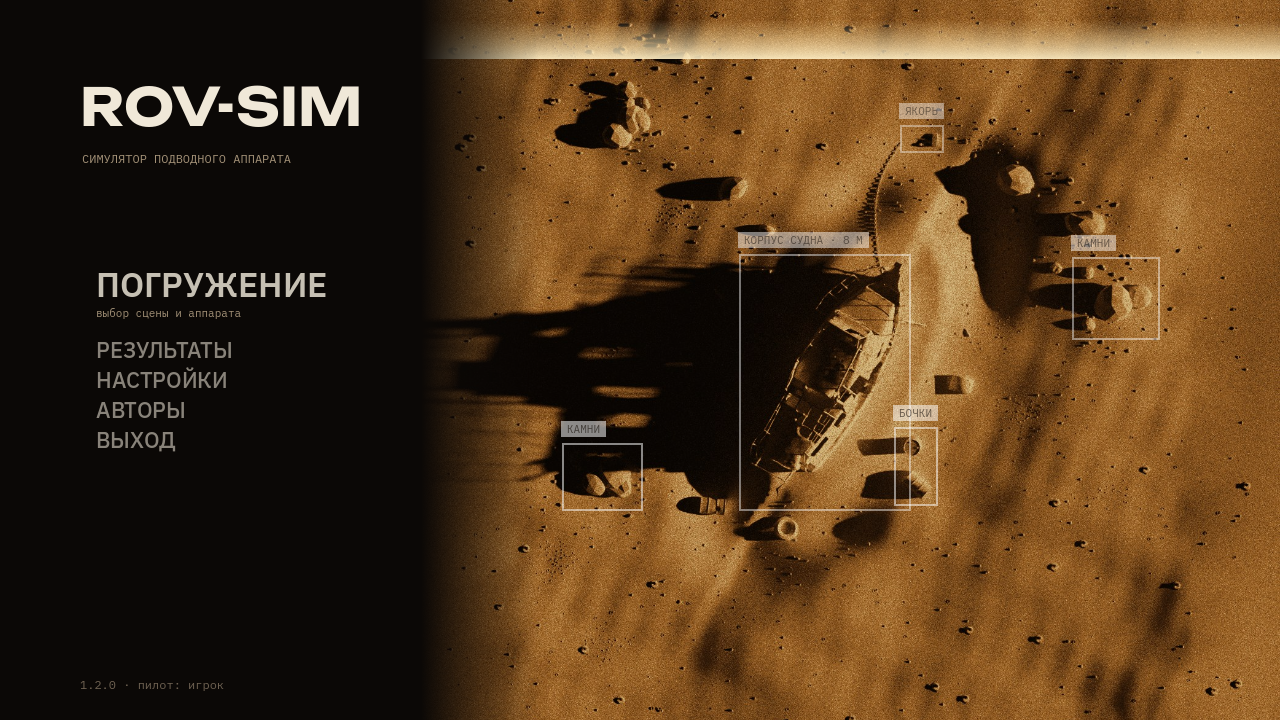
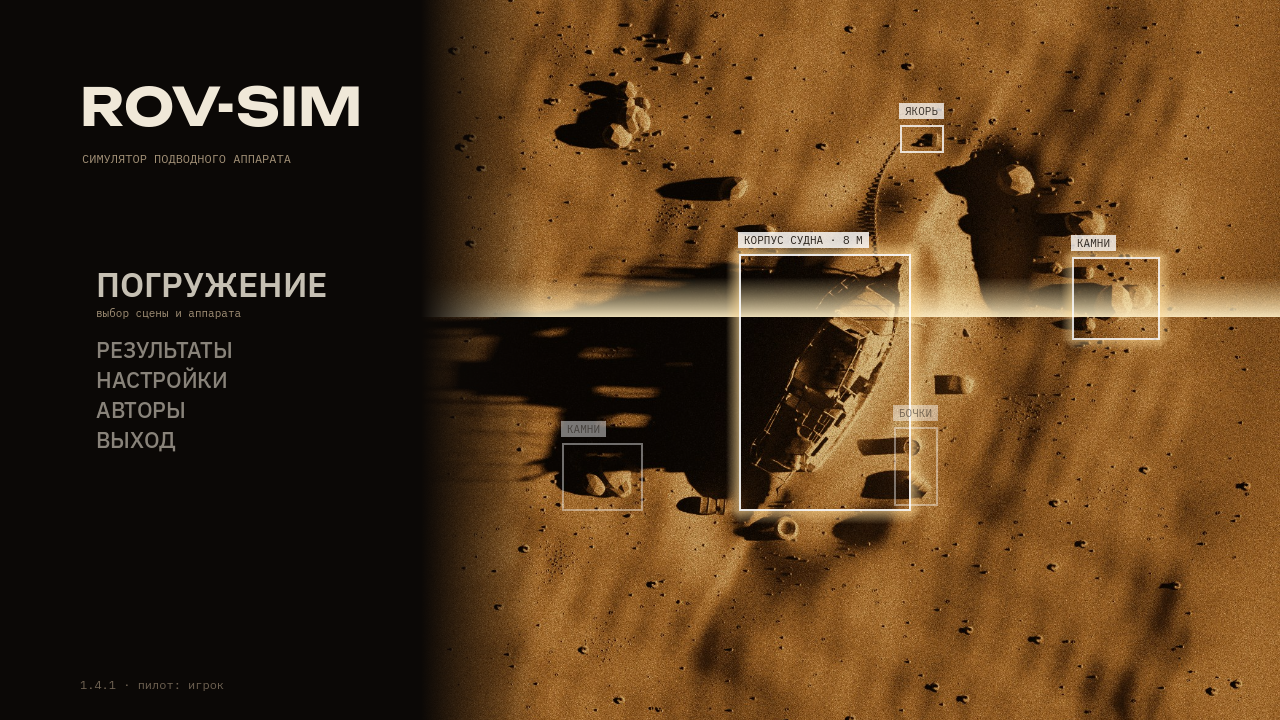
README короче, новые снимки из 1.4.1

diff --git a/README.md b/README.md
@@ -1,132 +1,103 @@
 # ROV-Sim
 
-Версия 1.4.1 · [что нового](CHANGELOG.md)
+Симулятор небольшого телеуправляемого подводного аппарата (ТНПА) «Петрович» — макета кафедры морских информационных систем и технологий СПбГМТУ. Версия 1.4.1, [изменения](CHANGELOG.md).
 
-**Симулятор настоящего подводного аппарата, где у каждого числа есть источник и проверка.**
+![Бассейн с кольцами: камера аппарата, окошко «со стороны» с силами](docs/screenshots/01_pool_rings.png)
 
-Аппарат — телеуправляемый подводный робот (ТНПА) **«Петрович»**: макет для отработки инженерных решений, который собрал и разработал коллектив кафедры морских информационных систем и технологий (МИСиТ, 2350) СПбГМТУ в рамках трёх магистерских работ. Труба Ø140 × 650 мм, два маршевых движителя, две поршневые цистерны по 70 мл для глубины и дифферента. В игре он управляется теми же командами, что с настоящего пульта (работа Павлова), движется по модели и откалиброван по опытам в бассейне кафедры (работа Дунаева), а свет в воде считается по физике и сверен с кадрами мишени (работа Холопова).
+**Скачать:** [Releases](https://github.com/kholye/ROV-Sim/releases) → `ROV-Sim-1.4.1-windows-x64.zip` (≈126 МБ). Распаковать и запустить `ROV-Sim.exe`, установка не нужна; всё, что игра сохраняет, лежит в папке `userdata` рядом с ней. Достаточно встроенной видеокарты (60 кадров/с при 1280 × 720 на Ryzen 5 5500U). Интерфейс на русском.
 
-![Бассейн с кольцами: камера аппарата, окошко со стороны с силами](docs/screenshots/01_pool_style.png)
+## Что это
 
-**Скачать для Windows:** [Releases](https://github.com/kholye/ROV-Sim/releases) → `ROV-Sim-1.4.1-windows-x64.zip` (≈126 МБ), распаковать, запустить `ROV-Sim.exe`. Установка не нужна, игра портативная: всё, что она сохраняет, лежит в папке `userdata` рядом с ней. Хватает встроенной видеокарты (60 кадров/с при 1280 × 720 на Ryzen 5 5500U).
+У аппарата труба Ø140 × 650 мм, два маршевых движителя и две поршневые цистерны по 70 мл. Вертикальных движителей нет: глубину меняют цистерны, медленно, поэтому погружаться приходится заранее. Крен и боковой ход не управляются. Управление — как с настоящего пульта: два движителя от одного стика, цистерны по отдельности, удержание глубины по ПИД.
 
-**Новое в 1.4.1:** у затонувшего судна на ленте курса — метка ближайшей точки осмотра: ▲ выше аппарата, ▼ ниже, ◆ на той же глубине.
+Движение считается по уравнениям Fossen (6 степеней свободы). Масса, центры и сопротивление взяты из 3D-модели аппарата, часть чисел подогнана по опытам в бассейне кафедры. Свет в воде считается по каналам R, G, B: поглощение, рассеяние, пелена от лампы. Стандартное освещение движка не используется. У каждого числа в `godot/physics/rov_params.json` указаны источник и статус: *проверено*, *подогнано* или *оценка*.
 
-**Новое в 1.4:** аппарат ложится на дно и не проходит сквозь стены (касание — силами в уравнениях движения); наклон камеры вниз 0-30° (I / K); камера по руководству DiCam 300 — 140° по диагонали, автоэкспозиция; лабораторный бассейн по фото — гладкий бетон, иллюминатор, крышка из 6 секций (открыта одна), кабель; пауза останавливает всё; выбор сцены и «Начать», экран загрузки; настройки короче; стильный вид и гул у судна убраны. Подробно — [CHANGELOG](CHANGELOG.md).
+## Сцены
 
-**В 1.3:** главное меню в виде гидролокатора бокового обзора над местом крушения и экран погружения с выбором аппарата и сцены; авторы аппарата «Петрович» и симулятора — на заставке, в «Авторах», в свойствах .exe и моделях; звук (интерфейс, музыка меню, гул насосов и судна обеспечения, шорох кабеля, запись гидрофона NOAA); фото-режим F12; игра портативная. Подробно — [CHANGELOG](CHANGELOG.md).
-
-**В 1.2:** движители у дна поднимают ил — хлопья и бурая муть, которые сносит течение; кабель-трос стал физическим: тонет, сносится течением, цепляется за судно и держит аппарат; течение у судна; камера аппарата по паспорту DiCam 300 (140°). Подробно — [CHANGELOG](CHANGELOG.md).
-
-## За две минуты
-
-1. **Что делаешь.** Ведёшь аппарат через 6 колец в бассейне 12 × 25 × 5 м на время или осматриваешь затонувшее судно — обросший риф в мутной северной воде — и снимаешь 6 точек вблизи, при свете лампы. Аппарат на кабеле: он ложится на дно и обломки и может зацепиться — тогда аппарат не пускает дальше, надо вернуться по своему следу. Результаты — в таблицу и CSV.
-2. **Почему это трудно.** Вертикальных движителей нет: глубину меняют цистерны, медленно (1,5 мл/с), поэтому погружение надо начинать заранее. У дна струи движителей поднимают ил: полный ход над илом — и через несколько секунд перед камерой муть. Крен и боковой ход не управляются. По расчёту модели корпус без вертикальных стабилизаторов неустойчив по курсу: на ходу нос уводит, приходится подруливать.
-3. **Чем отличается от игры.** Физика — уравнения Fossen (6 степеней свободы) с массой, центрами и сопротивлением, посчитанными по 3D-модели аппарата. Её же независимо считает программа на Python; расхождение с игрой 0,00005 мм глубины за минуту. Свет считается по каналам R, G, B с поглощением и обратным рассеянием, а «хоррор-стиль» (низкое разрешение, дизеринг, зерно) — только последний проход, по умолчанию выключен (настройки или Tab). Для тех, кому пульт настоящего аппарата слишком труден, есть режим «автопилот»: физика та же, пульт помогает держать курс и глубину.
-4. **Чему можно верить.** Каждое число помечено: *проверено*, *подогнано* по опыту (тогда совпадение с этим опытом проверкой не считается), *оценка*. Неудачи записаны так же подробно, как успехи.
-
-## Снимки
+- **Бассейн с кольцами**, 12 × 25 × 5 м: шесть колец по порядку на время. Раскладка — из первой версии симулятора.
+- **Затонувшее судно** в мутной воде (видимость около 7 м): осмотреть шесть точек на корпусе вблизи, при свете лампы. Аппарат идёт на кабеле, который тонет, сносится течением и может зацепиться за обломки. Движители у дна поднимают ил. Направление на ближайшую точку показывает метка на ленте курса.
+- **Лабораторный бассейн** кафедры, 3 × 3 × 3 м: мишень для проверки света. Крышка из шести секций, открыта одна, поэтому внутри темно.
 
 | | |
 |---|---|
-| ![](docs/screenshots/02_pool_science.png) **Камера аппарата**: график глубины (F2), ослабление света по R/G/B (F4) | ![](docs/screenshots/03_pool_overview.png) **Бассейн** 12 × 25 × 5 м: раскладка колец из первой версии симулятора |
-| ![](docs/screenshots/04_wreck_rov.png) **Судно, камера аппарата**: стая тресочки у корпуса; лампа в 10 см от объектива даёт серую пелену в мутной воде — это физика, а не ошибка | ![](docs/screenshots/05_wreck_chase.png) **Судно, вид сзади**: скан настоящего судна в обрастании (актинии, ламинария), гравий у борта, треска |
-| ![](docs/screenshots/06_lab_target.png) **Лабораторный бассейн 3 × 3 × 3 м**: мишень Холопова для проверки света | ![](docs/screenshots/07_menu.png) **Меню**: снимок бокового обзора над местом судна, рамки целей вспыхивают по ходу линии обзора; «Погружение» — выбор аппарата и сцены |
-| ![](docs/screenshots/08_model.png) **Модель аппарата** (Blender, по фото): из неё считаются объём, центры масс и плавучести, сопротивление | ![](docs/verification/v3_pid.png) **Проверка V3**: удержание глубины в модели против опытов Дунаева |
-| ![](docs/levels/silt_flocs_lab.png) **Ил (1.2)**: хлопья после разворота у дна в игре (слева) и кадр мутной воды бассейна кафедры (справа) — число частиц сверено | ![](docs/levels/tether_snag.png) **Кабель (1.2)**: кабель лёг по дну и зацепился у якоря — движители работают, скорость 0, сила кабеля в окошке |
-
-## Как это работает
-
-```mermaid
-flowchart LR
-    W["Работы Холопова и Дунаева,<br/>статья Игнатьевой и Кузьменко"] --> P["rov_params.json<br/>каждое число: источник + статус"]
-    M["3D-модель аппарата<br/>(Blender, по фото)"] --> P
-    P --> R["Эталон на Python<br/>physics_ref/"]
-    P --> G["Физика в игре<br/>godot/physics/"]
-    R <-->|"V2: 0,00005 мм"| G
-    D["Опыты в бассейне<br/>рис. 48-49, т. 9"] -->|"калибровка и проверка"| R
-    G --> L["Свет по R/G/B<br/>шейдер = эталон до 2/255"]
-    L --> S["Объектив DiCam 300:<br/>последний проход"]
-```
-
-- **Физика** (`godot/physics/*.gd`, без узлов движка): 6 степеней свободы по Fossen, плавучесть и цистерны, присоединённые массы и поперечное обтекание по деталям модели, два движителя, течение, датчики с шумом по Аллану, батарея, ПИД глубины как в пульте. Все числа в одном файле `godot/physics/rov_params.json`. Перевод осей физики (NED) в оси Godot — в одном модуле `ned_godot.gd`.
-- **Свет** (`godot/shaders/underwater.gdshaderinc`): поглощение чистой воды по Pope & Fry, рассеяние взвесью, обратное рассеяние вдоль луча от лампы (фазовая функция Фурнье-Форанд), свет сверху. Стандартное освещение Godot не используется.
-- **Ил** (`godot/physics/silt_plume.gd`, частицы `shaders/silt_flocs.gdshader`): струя движителя по Albertson → напряжение на дне → размыв по Партениадесу → облако клубов (несёт течение и струи, растёт турбулентностью, оседает) и хлопья-частицы той же массы; свет в облаке — тем же расчётом, что вода.
-- **Кабель-трос** (`godot/physics/tether_cable.gd`): цепочка масс по Морисону (вес, сопротивление поперёк и вдоль, течение), нерастяжимые звенья через XPBD с точным решением цепочки, касания с дном и судном с трением, подача с судна; сила кабеля входит в уравнения аппарата.
-- **Камера аппарата** (`godot/render/dicam_lens.gd`): DiCam 300 — 140° по диагонали (руководство пользователя; 122° по горизонтали на воздухе), плоское окно бокса по закону Снелла — 82° в воде; наклон вниз 0-30°; автоэкспозиция.
-- **Управление** повторяет пульт на MATLAB: правый стик — два движителя со смешением «ход ± поворот», цистерны по отдельности, удержание глубины с целью в миллиметрах, ПИД со шкалой 0,0-9,9.
-
-Подробнее: [`docs/physics-sources.md`](docs/physics-sources.md) (источник, формула, проверка и статус каждой модели), [`docs/model.md`](docs/model.md), [`docs/levels.md`](docs/levels.md), [`docs/ui.md`](docs/ui.md).
-
-## Что проверено
-
-Полный отчёт с графиками: [`docs/verification-report.md`](docs/verification-report.md).
-
-| Проверка | Итог |
-|---|---|
-| V1 физика против формул (падение, всплытие, разворот, дифферент, равновесие) | пройдено, 8 из 8, ошибка ≤ 0,3 % |
-| V2 игра против независимого расчёта на Python (60 с) | пройдено: глубина 5·10⁻⁵ мм, углы 6·10⁻⁵° |
-| V3 удержание глубины против опытов в бассейне | **согласуется** на 0,5 и 2,0 м; на 1,5 м **на границе** допуска (4,1 см при 4,0); это проверка согласованности: ПИД прошивки не известен и настроен в симуляторе |
-| V4 шум датчиков против т. 5 Дунаева | уход курса 2,41° против 2,85° у Дунаева (предсказание) |
-| V5 свет против кадров мишени и статьи 2024 | форма кривых по базе «лампа-камера» предсказана; вода бассейна **подогнана**; спад контраста с дальностью **не пройден** (модель растёт до 1,1-1,4 м) |
-| V6 энергия и покой | пройдено |
-| V7 ил: скорость струи у дна против формулы Blaauw, van de Kaa; баланс масс; игра = Python | пройдено: 1,5 %; 4·10⁻¹⁵; 10⁻⁸. Хлопья против кадра мутной воды: ≈ 770 против 830 пятен на 1/м мутности; размыв **подогнан** по данным автора о почти нулевой видимости в бассейне |
-| V8 кабель: цепная линия, уравнения нити в потоке, игра = Python | пройдено: натяжение 0,02 %, форма 4 мм; трение по формуле Эйлера **слабее** Кулона (μ 0,32 при 0,4) — записано |
-| Кольца автопилотом на физике аппарата | 6 из 6 за 286,8 с, штраф 0 (и в сборке .exe на чистом профиле) |
-
-**Подогнано** (совпадение с этими опытами не доказательство): расход поршня и затухание по вертикали (рис. 48), шум датчика глубины, постоянная фильтра курса, мутность воды бассейна кафедры.
-**Не известно** и помечено «оценка»: настоящая масса (модель даёт 8,2 кг вместо «около 10»), тяга движителей, размеры плоскостей, паспорт датчика давления.
+| ![](docs/screenshots/02_wreck_camera.png) Камера аппарата у обросшего борта | ![](docs/screenshots/03_wreck_chase.png) Тот же борт, вид сзади: кабель и пятно лампы |
+| ![](docs/screenshots/04_wreck_outside.png) Судно со стороны: дальше нескольких метров всё скрывает вода | ![](docs/screenshots/05_lab_target.png) Мишень в лабораторном бассейне, 1 м |
+| ![](docs/screenshots/06_lab_overview.png) Лабораторный бассейн: иллюминатор, мишень, кабель | ![](docs/screenshots/07_menu.png) Главное меню |
+| ![](docs/screenshots/08_dive.png) Выбор аппарата и сцены | |
 
 ## Управление
 
 | Клавиатура | Геймпад | Действие |
 |---|---|---|
-| W S A D, ↑ ↓ ← → | правый стик | ход и поворот |
+| W S A D, стрелки | правый стик | ход и поворот |
 | E / Q | крестовина + LT и RT | обе цистерны: набрать / вытеснить |
 | R / F, T / G | крестовина + LT / RT | носовая / кормовая цистерна |
-| H, PgUp / PgDn | B, Y / A | удержание глубины, цель на шаг мельче / глубже |
+| H, PgUp / PgDn | B, Y / A | удержание глубины, цель мельче / глубже |
 | L | LB | лампа 0 / 50 / 100 % |
-| I / K | R3 | наклон камеры вверх / вниз |
-| V, F2, F3, F4 | Back | окошко «со стороны», график, силы, ослабление света |
-| Esc | Start | пауза: ПИД, настройки |
+| I / K | R3 | наклон камеры |
+| V, F2, F3, F4 | Back | окошко «со стороны», график глубины, силы, ослабление света |
+| C | — | камера аппарата / вид сзади |
+| Esc | Start | пауза |
 
-В настройках три режима управления: научный (как настоящий пульт), автопилот (та же физика, пульт держит курс, дифферент и глубину, E / Q — глубже / мельче) и автопилот + ускорение. Всё управление — F1 в игре и [`docs/ui.md`](docs/ui.md).
+Полный список — F1 в игре. В настройках есть режим «автопилот»: физика та же, но пульт сам держит курс и глубину.
 
-## Собрать и проверить самому
+## Проверки
 
-Нужны Godot 4.7.2 (без .NET; для сборки .exe — его шаблоны экспорта), Python 3.12 с пакетами из `physics_ref/requirements.txt` (окружение `physics_ref/.venv`), для сцен — Blender 4.5 LTS.
+Подробности и графики: [`docs/verification-report.md`](docs/verification-report.md), источники и формулы: [`docs/physics-sources.md`](docs/physics-sources.md).
 
-```bash
-cd physics_ref
-.venv/Scripts/python -m unittest discover -s tests -t .
-.venv/Scripts/python verify/v1_analytic.py
-```
+| Проверка | Результат |
+|---|---|
+| V1. Движение против аналитических формул | 8 из 8, расхождение ≤ 0,3 % |
+| V2. Игра против независимого расчёта на Python, 60 с | глубина 5·10⁻⁵ мм |
+| V3. Удержание глубины против опытов в бассейне | на 0,5 и 2,0 м согласуется; на 1,5 м на границе допуска. ПИД прошивки не известен, поэтому это проверка согласованности, а не подтверждение |
+| V4. Шум датчиков | уход курса 2,41° против 2,85° в опытах |
+| V5. Свет против кадров мишени и статьи 2024 г. | форма кривых по базе «лампа — камера» совпала; спад контраста с расстоянием **не совпал**; мутность воды подогнана |
+| V6. Энергия и покой | пройдено |
+| V7. Ил от движителей | скорость струи у дна против формулы — 1,5 %; число хлопьев против кадра мутной воды — 770 против 830 |
+| V8. Кабель | против цепной линии и уравнений нити в потоке — 4 мм по форме; трение слабее заданного (0,32 при 0,4) |
+| Кольца автопилотом | 6 из 6 за 284,7 с, без штрафа |
+
+Не известны и помечены «оценка»: настоящая масса аппарата (модель даёт 8,2 кг), тяга движителей, размеры плоскостей, вода у судна.
+
+## Как устроено
+
+- `godot/physics/` — физика без привязки к движку: движение, цистерны, течение, датчики, батарея, ил, кабель, касание дна и стен. Перевод осей физики в оси Godot — только в `ned_godot.gd`.
+- `physics_ref/` — тот же расчёт на Python и проверки V1–V8.
+- `godot/shaders/underwater.gdshaderinc` — свет в воде; совпадает с расчётом на Python до 2/255.
+- `godot/render/dicam_lens.gd` — объектив камеры DiCam 300: 140° по диагонали, плоское окно бокса.
+- `blender/` — скрипты, из которых собираются модель аппарата и сцены.
+
+Сборка и проверки (нужны Godot 4.7.2, Python 3.12 с `physics_ref/requirements.txt`, для сцен — Blender 4.5 LTS):
+
 ```bash
 Godot_v4.7.2-stable_win64_console.exe --headless --path godot --script res://tests/game_tests.gd
+```
+```bash
+cd physics_ref && .venv/Scripts/python verify/v1_analytic.py
 ```
 ```bash
 Godot_v4.7.2-stable_win64_console.exe --headless --path godot --export-release "Windows Desktop" ../build/ROV-Sim/ROV-Sim.exe
 ```
 
-Все команды проверок — раздел «Как повторить» в отчёте. Данные авторов работ (`data/`) в репозиторий не входят.
+Остальные команды — в разделе «Как повторить» отчёта. Исходные данные авторов работ (`data/`) в репозиторий не входят.
 
 ## Авторство
 
 **ROV-Sim** — Холопов Егор Геннадьевич, 2026.
 
-**Аппарат «Петрович»** собран и разработан коллективом кафедры МИСиТ (2350) СПбГМТУ:
+**Аппарат «Петрович»** — коллектив кафедры МИСиТ (2350) СПбГМТУ:
 - Коротицкий Евгений Викторович, к. т. н., доцент;
 - Кузьменко Александр Владимирович, старший преподаватель;
-- Холопов Егор Геннадьевич, магистр: система технического зрения, кадры мишени для проверки света;
+- Холопов Егор Геннадьевич, магистр: система технического зрения, кадры мишени;
 - Дунаев Артем Михайлович, магистр: математическая модель, опыты в бассейне;
-- Павлов Даниил Александрович, магистр: информационно-управляющая система и пульт управления («Исследование информационно-управляющей системы МПР»).
+- Павлов Даниил Александрович, магистр: информационно-управляющая система и пульт.
 
-**Первая версия симулятора**, на которой основан ROV-Sim (правила колец и осмотра судна, раскладка бассейна), — Семенов Николай Николаевич, заведующий кафедрой.
+**Первая версия симулятора** (правила колец и осмотра судна, раскладка бассейна) — Семенов Николай Николаевич, заведующий кафедрой.
 
-Проверка света — статья Игнатьевой Н. В. и Кузьменко А. В. (2024). Судно — скан «Malpas Metal Boat Wreck», artfletch, CC BY 4.0. Все источники и лицензии: [`docs/CREDITS.md`](docs/CREDITS.md).
+Проверка света — статья Игнатьевой Н. В. и Кузьменко А. В. (2024). Судно — скан «Malpas Metal Boat Wreck», artfletch, CC BY 4.0. Остальные источники и лицензии — [`docs/CREDITS.md`](docs/CREDITS.md).
 
 Код — [MIT](LICENSE), документы, графики и модели — [CC BY 4.0](LICENSE-docs.md).
 
 ---
 
-**In English.** ROV-Sim (by Egor Kholopov) simulates «Petrovich», a real small ROV test bed built by the Department of Marine Information Systems and Technologies (2350), SMTU, Saint Petersburg, within three master's theses (Kholopov, Dunaev, Pavlov), together with E. V. Korotitsky and A. V. Kuzmenko; the first simulator version was made by N. N. Semenov, head of the department. The vehicle: one hull, two thrusters, two 70 ml piston ballast tanks, no vertical thrusters. 6-DOF Fossen dynamics with mass properties computed from the 3D model, verified against an independent Python reference (5·10⁻⁵ mm depth error over 60 s) and calibrated/validated against pool experiments; physically based underwater light per RGB channel with backscatter, checked against target images and a 2024 paper. Since 1.4: contact forces with the bed and walls (the vehicle rests on the bottom), camera tilt, the camera lens and auto-exposure from the DiCam 300 manual, the lab pool rebuilt from a photo (lid, porthole, tether), a loading screen; the stylized view was removed. Since 1.3: a side-scan-sonar main menu, vehicle and scene selection, sound, a photo mode, and a portable build (all data next to the .exe). Since 1.2: thruster-induced sediment plumes (jet → bed shear → erosion → drifting, settling cloud with visible flocs matched to a real turbid frame), a lumped-mass tether with drag, friction and snagging that pulls on the vehicle, a seabed current, and the vehicle camera modelled from its datasheet (140° lens behind a flat port). Every parameter is tagged *verified*, *fitted* or *estimate*, and failed checks are reported. Windows build: see Releases. Interface is in Russian.
+**In English.** ROV-Sim simulates «Petrovich», a small ROV test bed of the Department of Marine Information Systems and Technologies, SMTU (Saint Petersburg). The vehicle has two thrusters and two 70 ml piston ballast tanks and no vertical thrusters. Motion follows Fossen's 6-DOF equations with mass properties from the 3D model; underwater light is computed per RGB channel with absorption and backscatter. A Python reference reproduces the physics, and the results of the checks, including the failed ones, are listed above. Three scenes: a ring course in a pool, a wreck survey in turbid water on a tether, and the department's 3 × 3 × 3 m test tank. Windows build: see Releases. The interface is in Russian.
